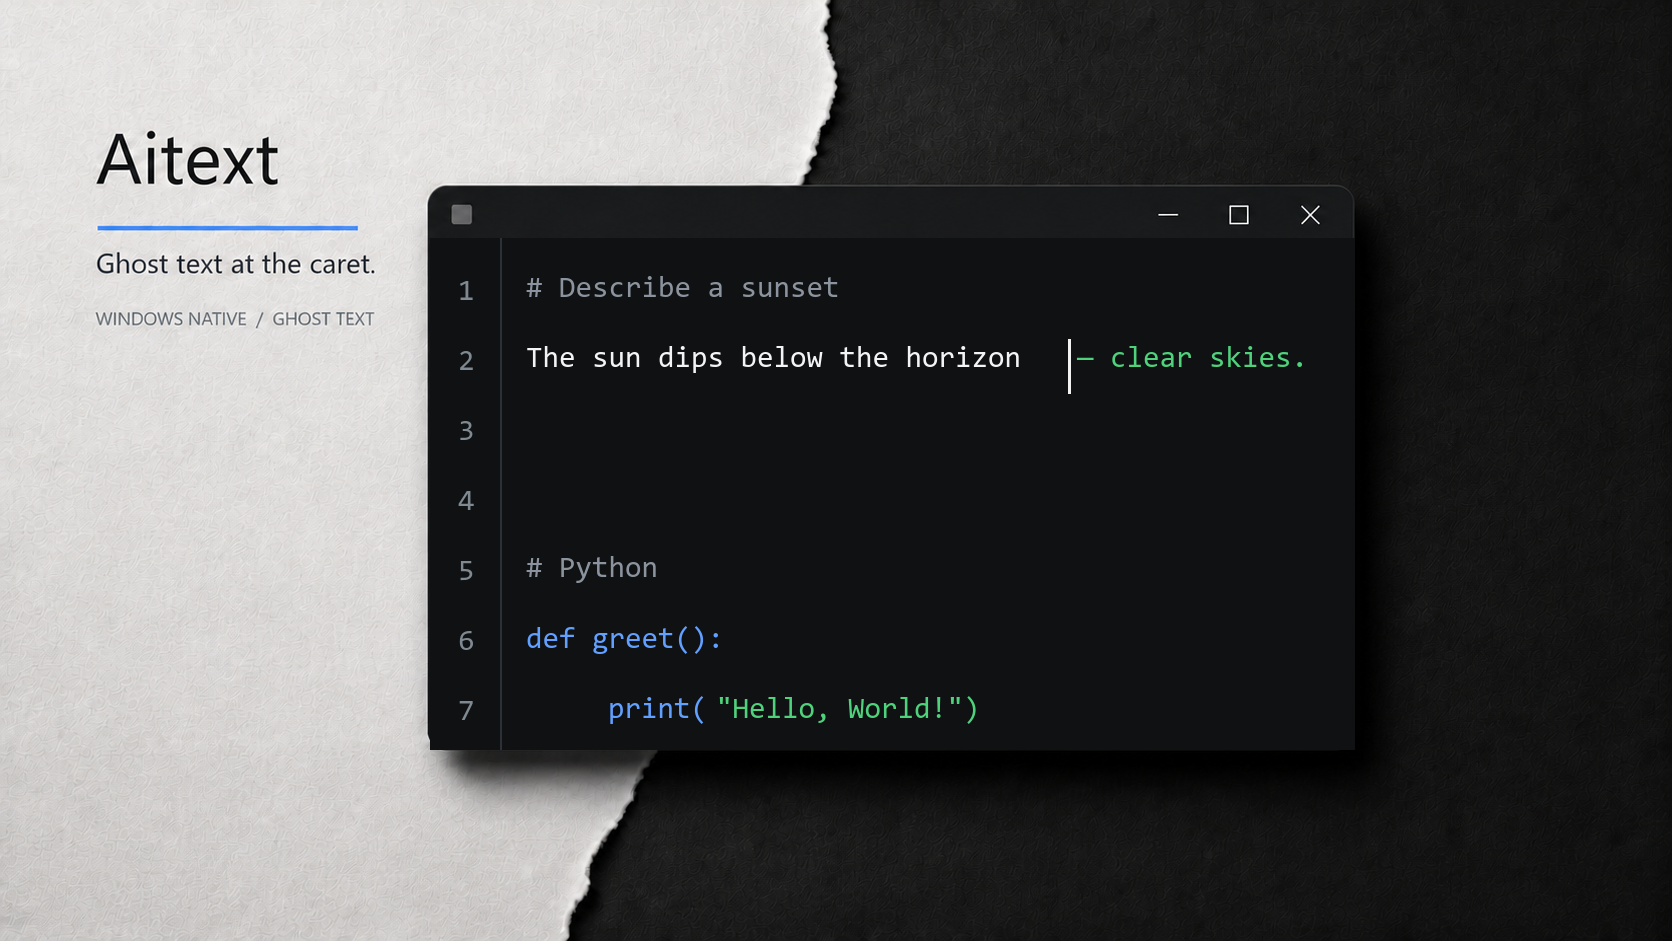
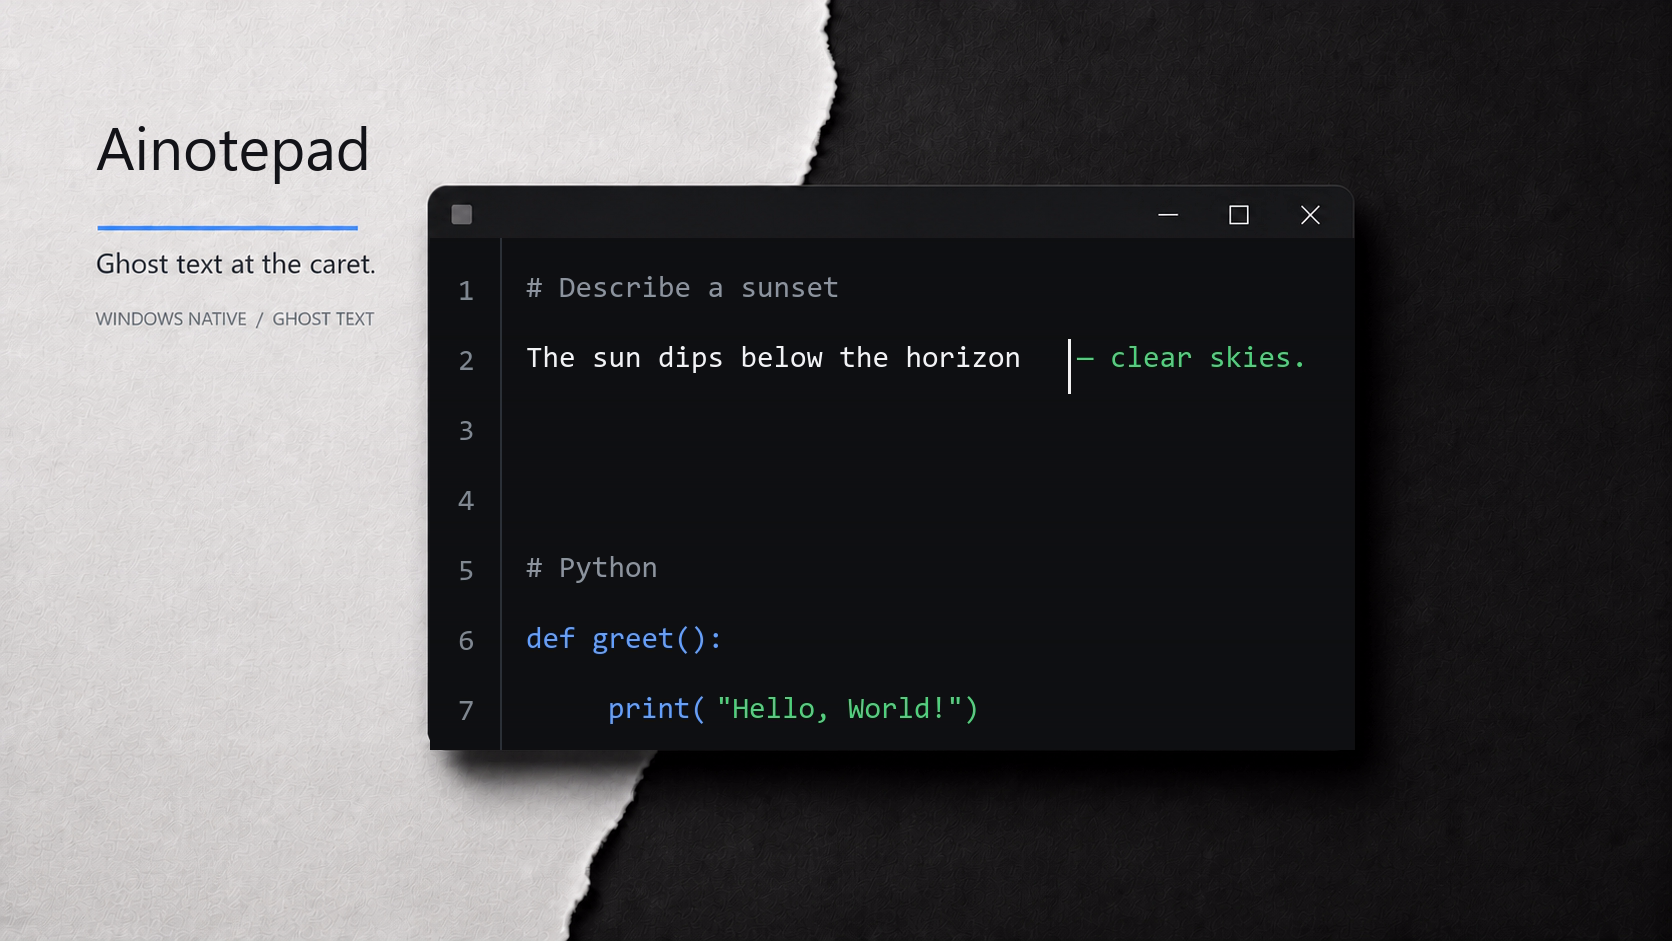
docs: publish Ainotepad product identity

Changed region(s): [[0.0622, 0.1233, 0.2177, 0.2157], [0.3732, 0.7396, 0.4043, 0.7705]]

diff --git a/README.md b/README.md
@@ -1,22 +1,22 @@
-# Aitext
+# Ainotepad
 
 [English](README.md) · [简体中文](README.zh-CN.md)
 
-[![CI](https://github.com/naipi11/Aitext/actions/workflows/ci.yml/badge.svg?branch=main)](https://github.com/naipi11/Aitext/actions/workflows/ci.yml) [![License: MIT](https://img.shields.io/badge/license-MIT-blue.svg)](LICENSE) [![Platform: Windows](https://img.shields.io/badge/platform-Windows-0078D4.svg)](https://github.com/naipi11/Aitext/releases)
+[![CI](https://github.com/naipi11/Ainotepad/actions/workflows/ci.yml/badge.svg?branch=main)](https://github.com/naipi11/Ainotepad/actions/workflows/ci.yml) [![License: MIT](https://img.shields.io/badge/license-MIT-blue.svg)](LICENSE) [![Platform: Windows](https://img.shields.io/badge/platform-Windows-0078D4.svg)](https://github.com/naipi11/Ainotepad/releases)
 
-![Aitext Paper Cut](docs/media/hero-en.png)
+![Ainotepad Paper Cut](docs/media/hero-en.png)
 
-![Aitext ghost text demo](docs/media/demo-en.gif)
+![Ainotepad ghost text demo](docs/media/demo-en.gif)
 
-Aitext is a lightweight Windows-native text and code editor with one inline ghost-text continuation at the caret. It keeps the writing surface clear, supports Chinese IME, and connects to provider profiles without becoming an IDE or chat sidebar.
+Ainotepad is a lightweight Windows-native text and code editor with one inline ghost-text continuation at the caret. It keeps the writing surface clear, supports Chinese IME, and connects to provider profiles without becoming an IDE or chat sidebar.
 
 ## Quick Start
 
 ### Install
 
-Download the [Aitext installer](https://github.com/naipi11/Aitext/releases/latest/download/Aitext-Setup-0.1.0-win-x64.exe), or use the [portable ZIP](https://github.com/naipi11/Aitext/releases/latest/download/Aitext-Portable-0.1.0-win-x64.zip).
+Download the [Ainotepad installer](https://github.com/naipi11/Ainotepad/releases/latest/download/Ainotepad-Setup-0.1.0-win-x64.exe), or use the [portable ZIP](https://github.com/naipi11/Ainotepad/releases/latest/download/Ainotepad-Portable-0.1.0-win-x64.zip).
 
-The v0.1.0 installer is unsigned, so Windows SmartScreen may show an unknown-publisher warning. Verify the download with [SHA256SUMS.txt](https://github.com/naipi11/Aitext/releases/latest/download/SHA256SUMS.txt) when needed.
+The v0.1.0 installer is unsigned, so Windows SmartScreen may show an unknown-publisher warning. Verify the download with [SHA256SUMS.txt](https://github.com/naipi11/Ainotepad/releases/latest/download/SHA256SUMS.txt) when needed.
 
 ### Configure a provider
 
@@ -40,7 +40,8 @@ Type in a document and pause briefly. A green continuation appears at the caret 
 - Paper Cut shell with White, Black Green, VS Code, macOS Light, Dark, Lamp, High Contrast, and Custom themes.
 - English, Simplified Chinese, and Follow Windows interface language modes.
 - Multiple isolated API profiles and selectable models.
-- Syntax highlighting for common source languages, tabs, find/replace, undo/redo, and configurable status information.
+- Markdown is the default for new documents; the status bar type selector supports Plain Text, C/C++, C#, Python, Rust, JavaScript/TypeScript, HTML, CSS, JSON, TOML, PowerShell, Batch, and INI.
+- Syntax highlighting for the selected document type, tabs, find/replace, undo/redo, and configurable status information.
 - Native Windows title controls and a portable single-process editor.
 
 ## Build from source
@@ -49,14 +50,14 @@ Install the stable Rust toolchain, then run:
 
 ```powershell
 cargo test --workspace -- --test-threads=1
-cargo build --release -p aitext
+cargo build --release -p ainotepad
 ```
 
-The portable executable is written to `target/release/aitext.exe`.
+The portable executable is written to `target/release/ainotepad.exe`.
 
 ## Scope
 
-Aitext is intentionally a focused editor. It does not include a file tree, LSP, debugger, terminal, plugin system, minimap, multi-caret editing, chat sidebar, Copilot login, or runtime translation downloads.
+Ainotepad is intentionally a focused editor. It does not include a file tree, LSP, debugger, terminal, plugin system, minimap, multi-caret editing, chat sidebar, Copilot login, or runtime translation downloads.
 
 ## License
 

diff --git a/DESIGN.md b/DESIGN.md
@@ -1,5 +1,5 @@
 ---
-name: Aitext
+name: Ainotepad
 description: Native Windows writing instrument with a theme-responsive Paper Cut shell and editor page.
 colors:
   base: "#101113"
@@ -48,13 +48,13 @@ components:
     rounded: "{rounded.control}"
 ---
 
-# Design System: Aitext
+# Design System: Ainotepad
 
 ## Overview
 
 **Creative North Star: "Paper Cut"**
 
-Paper Cut treats Aitext as a precise native Windows writing instrument: a stable rail-and-page structure follows the selected light or dark theme family while preserving the same hierarchy, spacing, and semantic colors. The shell is quiet by design so the document remains the visual subject.
+Paper Cut treats Ainotepad as a precise native Windows writing instrument: a stable rail-and-page structure follows the selected light or dark theme family while preserving the same hierarchy, spacing, and semantic colors. The shell is quiet by design so the document remains the visual subject.
 
 Meaning is intentionally scarce. Focus and navigation use blue, an available completion uses green, and the gutter uses a quiet neutral-gray divider with no semantic meaning. Simplified Chinese and English are complete interface modes, while product and protocol terms stay literal where recognition matters.
 
@@ -110,7 +110,7 @@ Chrome inherits the native egui/Windows fallback path rather than introducing a 
 
 ## Layout
 
-The native Windows title bar remains outside the application shell. Aitext opens at 1100 × 720 px, then the shell stacks a 36 px menu rail, a 34 px tab rail, the remaining editor area, and a 26 px status rail. Find/Replace appears as an inline raised rail above the editor rather than reducing the app to a floating-card composition.
+The native Windows title bar remains outside the application shell. Ainotepad opens at 1100 × 720 px, then the shell stacks a 36 px menu rail, a 34 px tab rail, the remaining editor area, and a 26 px status rail. Find/Replace appears as an inline raised rail above the editor rather than reducing the app to a floating-card composition.
 
 The editor owns all remaining space. Its compact 34 px gutter right-aligns line numbers 6 px before a translucent one-pixel gray divider. Document text, the initial caret, selections, IME anchoring, syntax colors, and ghost text begin 4 px after that divider.
 
@@ -146,7 +146,7 @@ The full editor uses the selected editor theme for its page and syntax palette. 
 
 ### Status Rail
 
-The 26 px `base` rail uses short separators and muted text for configured cursor, encoding, newline, language, profile/model, message, and custom items. Only a suggested completion may use `ghost`.
+The 26 px `base` rail uses short separators and muted text for configured cursor, encoding, newline, language, profile/model, message, and custom items. The language item is an interactive Ainotepad document-type chip: new documents start at Markdown, while the popup groups text formats and programming languages. Only a suggested completion may use `ghost`.
 
 ### Find/Replace and Tool Windows
 

diff --git a/PRODUCT.md b/PRODUCT.md
@@ -16,11 +16,11 @@ A Windows user writing Chinese or English notes and light source files, often sw
 
 ## Product Purpose
 
-Aitext is a lightweight notepad with inline ghost-text completion. Saved profiles support DeepSeek, OpenAI, xAI, Anthropic, and custom endpoints through the adapter each endpoint requires. The core loop is open, type or IME-commit, preview one suggestion, accept with Tab or dismiss with Esc, then save normally.
+Ainotepad is a lightweight notepad with inline ghost-text completion. Saved profiles support DeepSeek, OpenAI, xAI, Anthropic, and custom endpoints through the adapter each endpoint requires. The core loop is open, type or IME-commit, preview one suggestion, accept with Tab or dismiss with Esc, then save normally.
 
 ## Positioning
 
-Not an IDE and not a chat sidebar. Aitext stays a single native process and treats completion as green preview text that never becomes document content until the user accepts it.
+Not an IDE and not a chat sidebar. Ainotepad stays a single native process and treats completion as green preview text that never becomes document content until the user accepts it.
 
 ## Operating Context
 
@@ -28,7 +28,8 @@ The Paper Cut structure remains stable while its chrome follows the selected lig
 
 ## Capabilities and Constraints
 
-- Multiple tabs, open/save, undo/redo, find/replace, line numbers, and basic syntax highlighting.
+- Multiple tabs, open/save, undo/redo, find/replace, line numbers, and type-aware syntax highlighting.
+- New documents default to Markdown; the compact status rail lets users switch among Plain Text, Markdown, and mainstream programming languages without changing file contents.
 - Multiple isolated API profiles with DPAPI-backed secrets and selectable models.
 - One ghost suggestion, never a completion list.
 - v1 has no file tree, LSP, terminal, plugin system, WebView, or chat sidebar.
@@ -36,7 +37,7 @@ The Paper Cut structure remains stable while its chrome follows the selected lig
 
 ## Brand Commitments
 
-Name: Aitext. Voice: concise, technical, and consistently localized. The visual signature is a precise neutral instrument around the page, a blue focus line, a compact neutral-gray gutter divider, and green completion text. Do not copy Helix or Notepad++ source.
+Name: Ainotepad. Voice: concise, technical, and consistently localized. The visual signature is a precise neutral instrument around the page, a blue focus line, a compact neutral-gray gutter divider, and green completion text. Do not copy Helix or Notepad++ source.
 
 ## Product Principles
 

diff --git a/docs/media/README.md b/docs/media/README.md
@@ -1,8 +1,8 @@
-# Aitext showcase media
+# Ainotepad showcase media
 
-The Paper Cut base scene was generated with the built-in image generation tool and refined from the approved `aitext-hero.png` reference. The prompt required a matte black/white paper split, a compact editor instrument, blue focus, green ghost text, a neutral gray divider, no orange line, and no watermark. The final editor text is intentionally explicit rather than abstract: each language variant shows a natural-language ghost continuation and a Python `print("Hello, World!")` completion.
+The Paper Cut base scene was generated with the built-in image generation tool and refined from the approved `ainotepad-hero.png` reference. The prompt required a matte black/white paper split, a compact editor instrument, blue focus, green ghost text, a neutral gray divider, no orange line, and no watermark. The final editor text is intentionally explicit rather than abstract: each language variant shows a natural-language ghost continuation and a Python `print("Hello, World!")` completion.
 
-- `aitext-paper-cut-base.png`: generated base scene kept for provenance.
+- `ainotepad-paper-cut-base.png`: generated base scene kept for provenance.
 - `hero-en.png`: English Paper Cut hero with a short readable sentence suggestion and `print("Hello, World!")` inside the editor.
 - `hero-zh-CN.png`: Simplified Chinese Paper Cut hero with `今天的天气` plus a green continuation and the same Python completion.
 - `demo-en.gif`: 32-frame, 8 fps English editor showcase where the sentence ghost text appears first and `"Hello, World!")` then completes after the typed `print(` prefix, 1200×675.

diff --git a/release-notes/v0.1.0.md b/release-notes/v0.1.0.md
@@ -1,8 +1,8 @@
-# Aitext v0.1.0
+# Ainotepad v0.1.0
 
 ## English
 
-First formal Aitext release: a lightweight Windows-native text and code editor with inline ghost-text completion at the caret.
+First formal Ainotepad release: a lightweight Windows-native text and code editor with inline ghost-text completion at the caret.
 
 Highlights:
 
@@ -18,7 +18,7 @@ This release is unsigned. Windows SmartScreen may show an unknown-publisher warn
 
 ## 简体中文
 
-Aitext 首个正式版本：一款轻量级 Windows 原生文本/代码编辑器，在光标处提供幽灵字补全。
+Ainotepad 首个正式版本：一款轻量级 Windows 原生文本/代码编辑器，在光标处提供幽灵字补全。
 
 主要内容：
 
